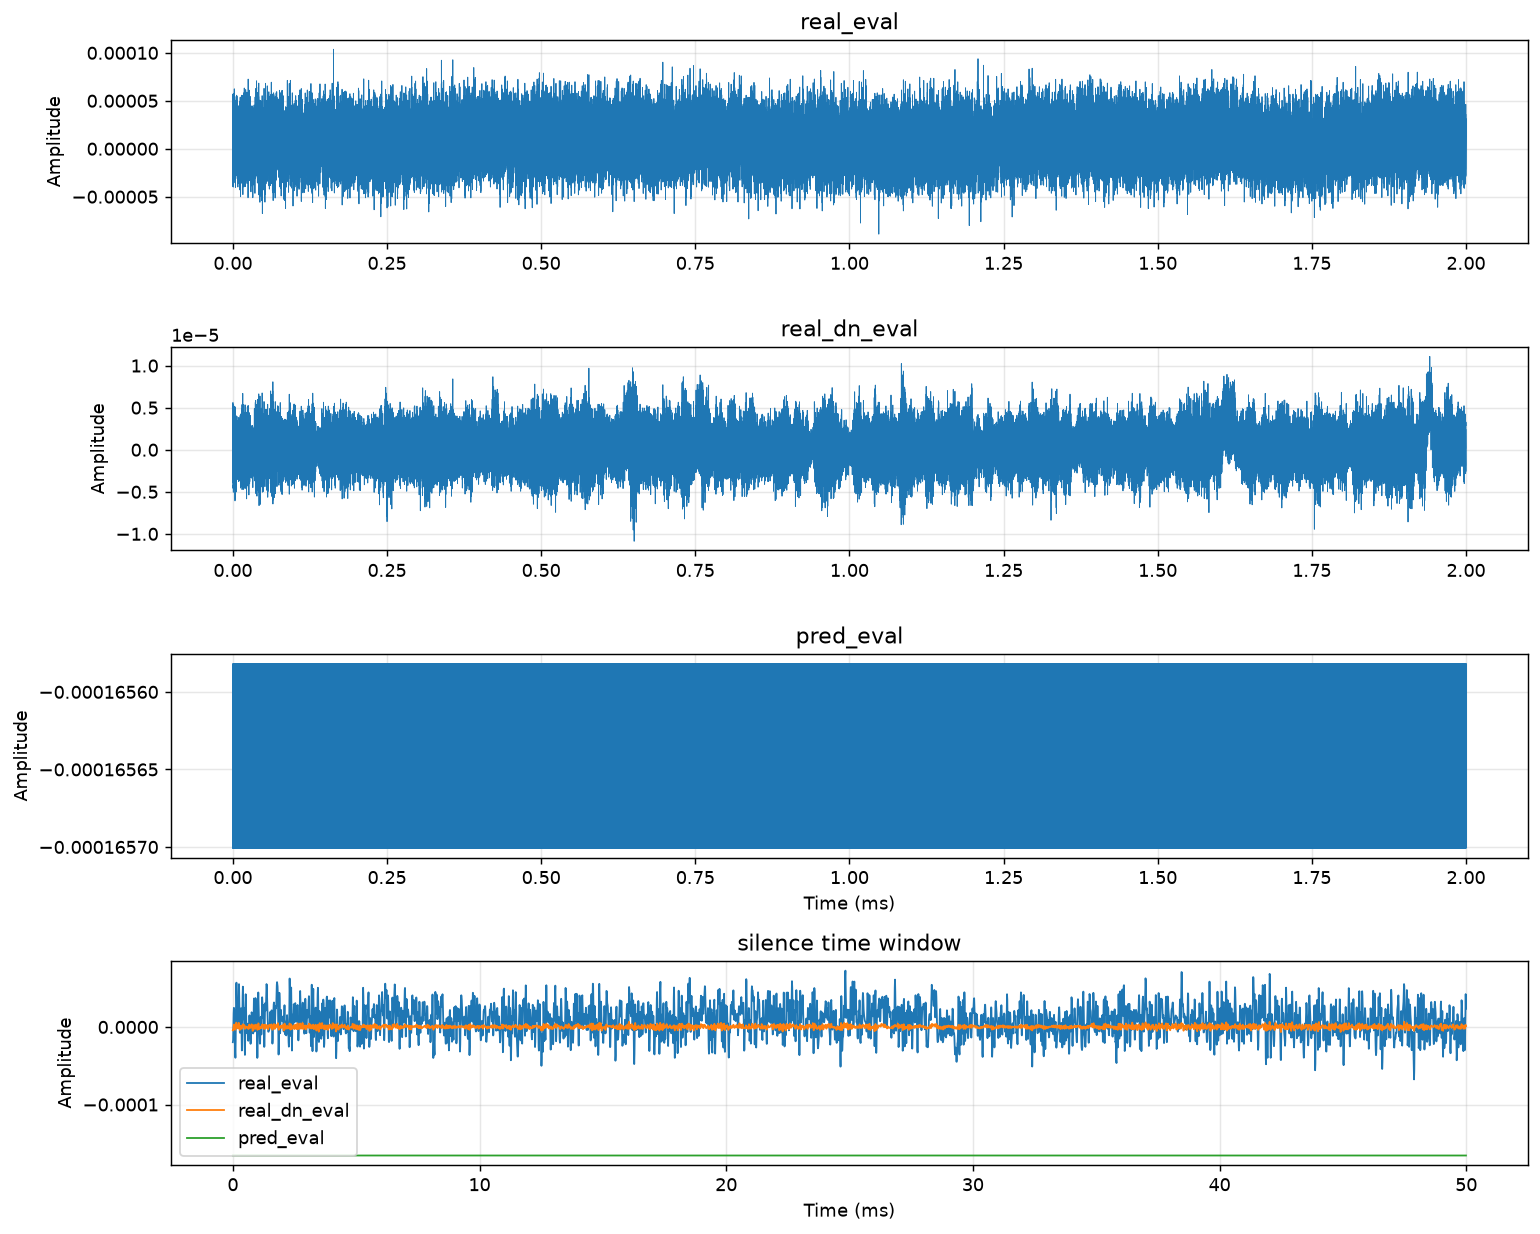
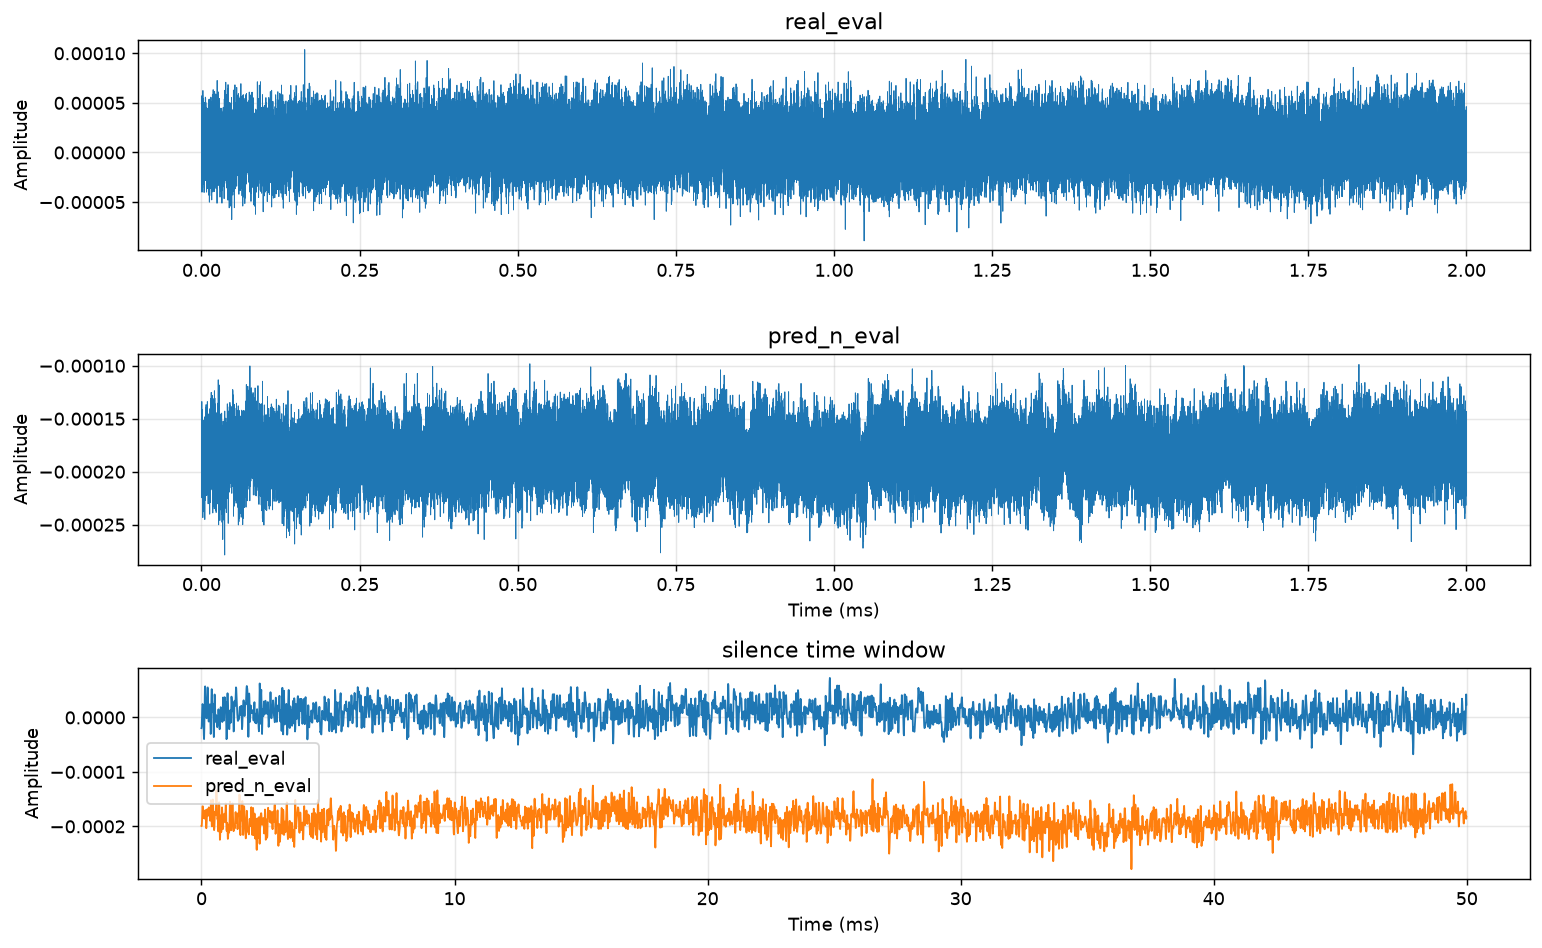
l

diff --git a/black_box/train/train.py b/black_box/train/train.py
@@ -21,8 +21,10 @@ from black_box.model.model import ConditionedLSTM, make_conditioned_input, norma
 from common.delay_ops import measure_delay, apply_shift
 from common.utils import load_wav
 import eval.spectral_compare as sc
+from scipy.stats import skew
 
 def get_symmetry(x):
+    x = x.flatten()
     pos = x[x > 0]
     neg = x[x < 0]
     pos_rms = np.sqrt(np.mean(pos**2)) if len(pos) else 0
@@ -32,7 +34,7 @@ def get_symmetry(x):
     skewness = skew(x)
     pn_rms = pos_rms/neg_rms
     p999Overp001 = p99_9/abs(p0_1)
-    return skewness, pn_rms, p999Overp001
+    return [skewness, pn_rms, p999Overp001]
 
 class PedalDataset(torch.utils.data.Dataset):
     """Loads the single shared dry reference (DRY_FILENAME) once, then
@@ -329,7 +331,7 @@ def train_stateful_single_file(
                 n_backward_steps += 1
                 accum_preds, accum_targets = [], []
         
-        # Predict validation
+        # Predict validation def validate(n_chunks, chunk_len, device, param_tensors, combined_loss)
         model.eval()
         with torch.no_grad():
             eval_states = None
@@ -343,8 +345,9 @@ def train_stateful_single_file(
             eval_pred = torch.cat(eval_preds, dim=1)
             eval_target = torch.from_numpy(wet_aligned[:eval_pred.shape[1]].copy()).unsqueeze(0).unsqueeze(-1).to(device)
             eval_loss, eval_esr, eval_dc, eval_pn = combined_loss(eval_pred, eval_target, dc_weight=0.5, pos_neg_weight=0.2)
-            pSkewness, pPn_rms, pP999Overp001 = get_symmetry(eval_pred)
-            tSkewness, tPn_rms, tP999Overp001 = get_symmetry(eval_target)
+            eval_loss, eval_esr, eval_dc, eval_pn = eval_loss.item(), eval_esr.item(), eval_dc.item(), eval_pn.item()
+            pSkewness, pPn_rms, pP999Overp001 = get_symmetry(eval_pred.detach().cpu().numpy())
+            tSkewness, tPn_rms, tP999Overp001 = get_symmetry(eval_target.detach().cpu().numpy())
             pMean = eval_pred.mean().item()
             pStd = eval_pred.std().item()
             tMean = eval_target.mean().item()

diff --git a/black_box/inference/infer.py b/black_box/inference/infer.py
@@ -106,19 +106,19 @@ def infer(
     print(f"pred stats: min={pred.min():.4f}, max={pred.max():.4f}, std={pred.std():.4f}")
 
 if __name__ == "__main__":
-    infer(
-        dry_path='/home/ubuntu/dsp-modeler/data/input/input.wav',
-        out_path='/home/ubuntu/dsp-modeler/data/predictions/p.wav',
-        checkpoint = '/home/ubuntu/dsp-modeler/black_box/model/models/2026-08-10_19-36/model_best.pt',
-        block_seconds=0.1,  # matches the order of magnitude training already ran thousands of forward passes at without incident
-        param_configs={
-            'd': {'min': 1, 'max': 7, 'dtype': torch.float32},
-            'f': {'min': 1, 'max': 7, 'dtype': torch.float32},
-            'v': {'min': 1, 'max': 7, 'dtype': torch.float32},
-        },
-        params={"d": 3.0, "f": 3.0, "v": 3.0},
-        param_order = ['d', 'f', 'v']
-    )
+    # infer(
+    #     dry_path='/home/ubuntu/dsp-modeler/data/input/input.wav',
+    #     out_path='/home/ubuntu/dsp-modeler/data/predictions/p.wav',
+    #     checkpoint = '/home/ubuntu/dsp-modeler/black_box/model/models/2026-08-10_21-27/model_best.pt',
+    #     block_seconds=0.1,  # matches the order of magnitude training already ran thousands of forward passes at without incident
+    #     param_configs={
+    #         'd': {'min': 1, 'max': 7, 'dtype': torch.float32},
+    #         'f': {'min': 1, 'max': 7, 'dtype': torch.float32},
+    #         'v': {'min': 1, 'max': 7, 'dtype': torch.float32},
+    #     },
+    #     params={"d": 3.0, "f": 3.0, "v": 3.0},
+    #     param_order = ['d', 'f', 'v']
+    # )
 
     evaluate_prediction(
         dry_path = '/home/ubuntu/dsp-modeler/data/input/input.wav',

diff --git a/black_box/eval/evaluate_prediction.py b/black_box/eval/evaluate_prediction.py
@@ -204,7 +204,8 @@ def evaluate_prediction(
 
     # plot waves
     # serieses = {'real': real_norm, 'real_dn': real_dn_norm, 'pred': pred_norm, 'pred_n': pred_n_norm}
-    serieses = {'real_eval': real_eval, 'real_dn_eval': real_dn_eval, 'pred_eval': pred_eval}
+    # serieses = {'real_eval': real_eval, 'real_dn_eval': real_dn_eval, 'pred_eval': pred_eval}
+    serieses = {'real_eval': real_eval, 'pred_n_eval': pred_n_eval}
     
     for k, v in serieses.items():
       asymmetry_report(v, k)
